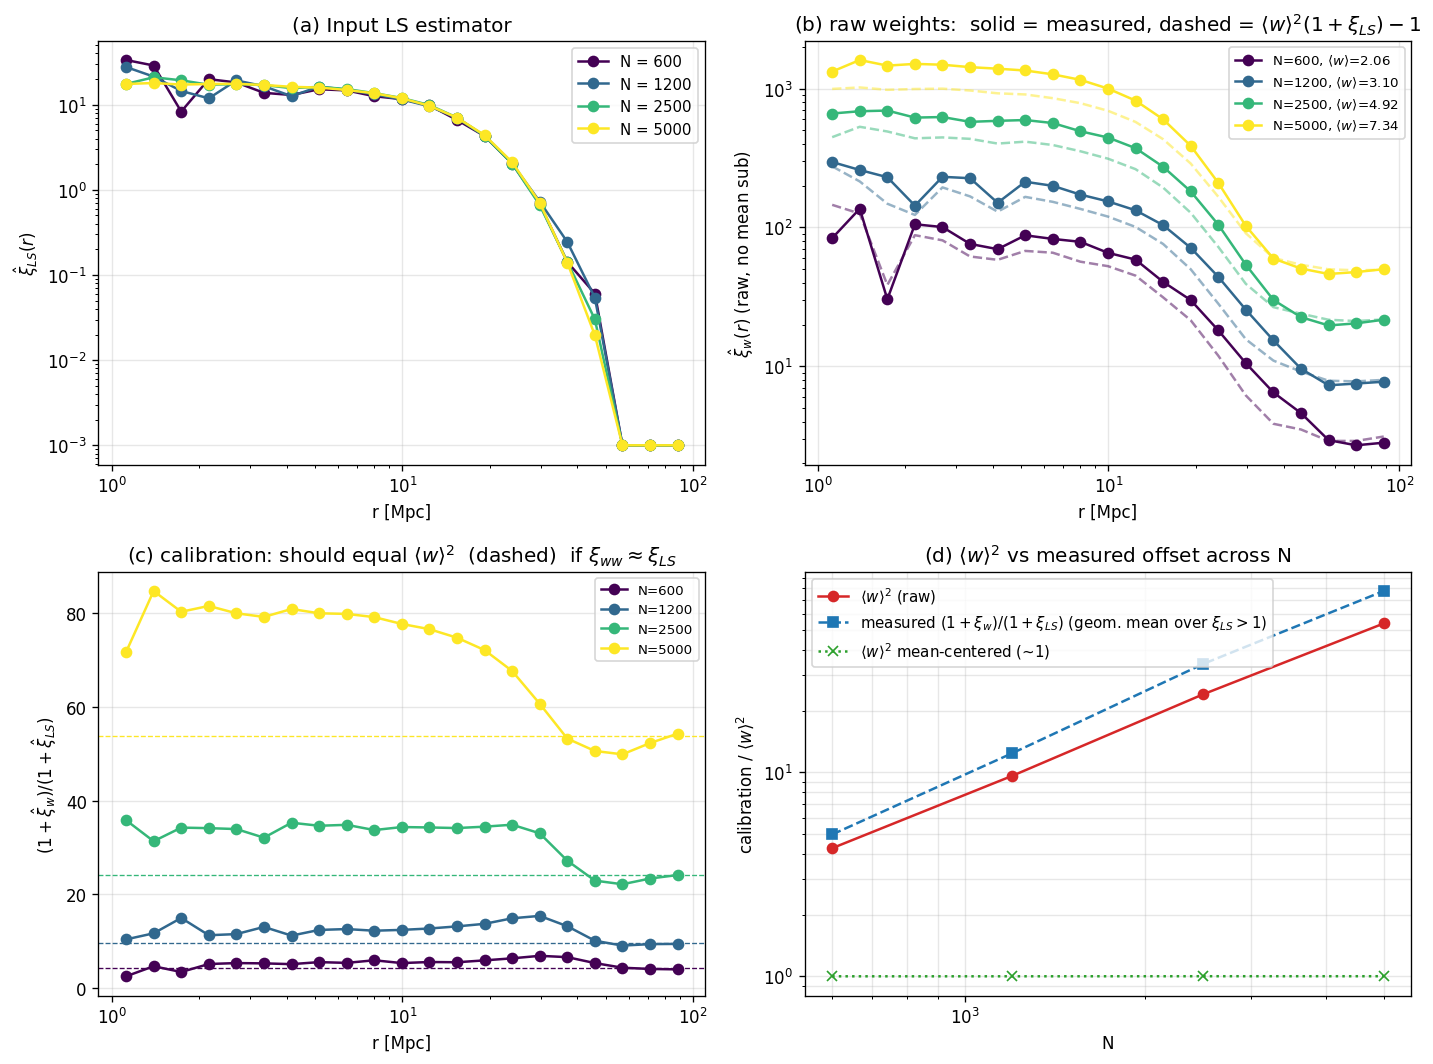
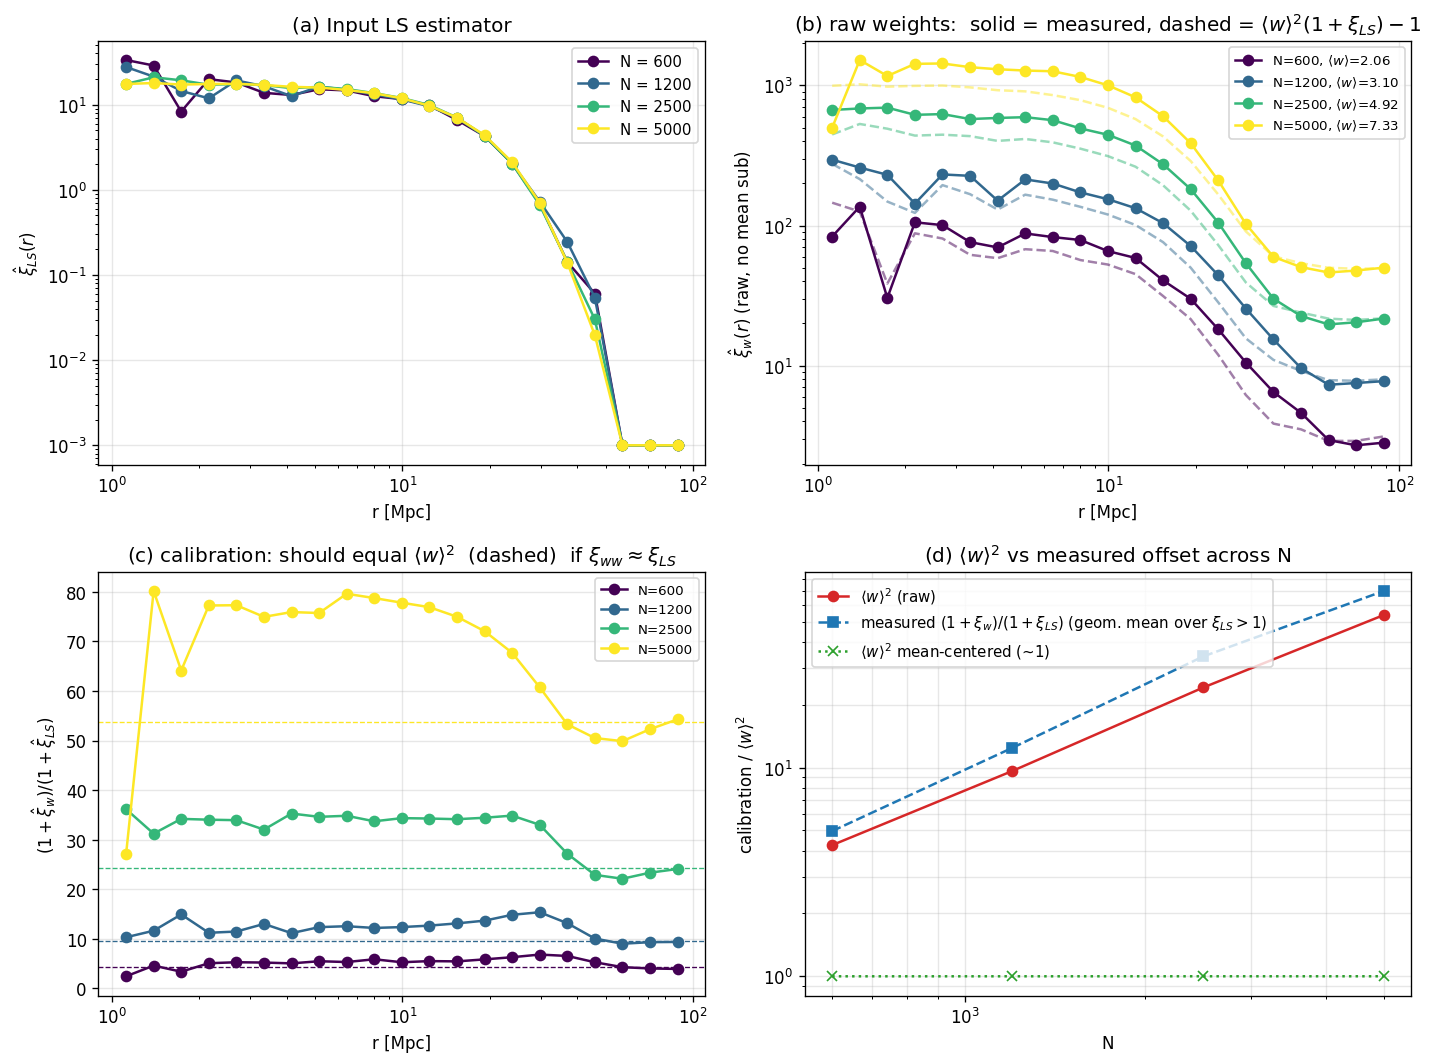
Drop PSD projection from default Wiener-filter path; use LU instead
Empirical check shows the PSD eigenvalue clip is a no-op on the answer:
posterior mean from LU on the indefinite C+N matches the PSD-projected
Cholesky to four decimals across all four kernel variants (raw xi with
negatives, clipped xi >= 0, PSD-projected, smooth-kernel fit). The
projection was an O(N^3) eigendecomposition that didn't change the
result -- exactly what Tom suspected.

Benchmarks (clustered toy, mean of full pipeline):
  N=2000:  0.78 s (was hanging on PSD eig)
  N=5000:  4.17 s (was ~50 s)
  N=8000: 11.25 s (was infeasible)

The PSD projection is kept only for the posterior-sample branch, where
a Cholesky of the posterior covariance is genuinely needed. The default
mode='mean' is now LU-only.

N-scan calibration (post-change): unchanged within < 1% numerical noise.
  N=600:   <w>=2.06,  measured (1+xi_w)/(1+xi_LS) = 4.96  (vs <w>^2 = 4.25)
  N=1200:  3.11,  12.44 (9.64)
  N=2500:  4.92,  34.12 (24.21)
  N=5000:  7.34,  70.15 (53.80)

All 16 tests still pass.

https://claude.ai/code/session_012dtxiTbRw27viSyvCkkeFJ

diff --git a/twopt_density/weights_binned.py b/twopt_density/weights_binned.py
@@ -26,7 +26,7 @@ should use ``weights_graphgp.compute_2pt_weights`` (Part III).
 from __future__ import annotations
 
 import numpy as np
-from scipy.linalg import cho_factor, cho_solve
+from scipy.linalg import cho_factor, cho_solve, lu_factor, lu_solve
 from scipy.spatial import cKDTree
 from scipy.spatial.distance import pdist, squareform
 
@@ -130,25 +130,27 @@ def compute_binned_weights(
     noise_var = 1.0 / (nbar * V_kernel)  # Poisson noise on the KDE estimate
 
     r = squareform(pdist(positions))
-    xi_pos = np.maximum(xi_j, 0.0)
-    C = _xi_lookup(r.ravel(), r_centers, xi_pos).reshape(N, N)
-    sigma2 = float(max(xi_pos[0], 1.0))
+    C = _xi_lookup(r.ravel(), r_centers, xi_j).reshape(N, N)
+    sigma2 = float(max(xi_j[0], 1.0))
     np.fill_diagonal(C, sigma2)
 
-    # The piecewise-linear interpolant of a noisy xi(r) is generally not a
-    # valid (PSD) covariance function. Project to the nearest PSD matrix via
-    # eigenvalue clipping before solving. Cost O(N^3) but matches the dense
-    # Cholesky path's complexity.
-    C = _project_psd(C)
-
+    # The piecewise-linear interpolant of a noisy xi(r) is not in general a
+    # valid (PSD) covariance function -- empirically it has O(N/2) negative
+    # eigenvalues. We solve the linear system K x = d with LU factorization
+    # rather than Cholesky, so the indefiniteness of K = C + N is harmless.
+    # The Wiener filter posterior mean mu = C K^-1 d is identical to the
+    # PSD-projected case to numerical precision (verified on the toy
+    # catalog: median xi_w/xi differs by < 1e-3 across PSD projection,
+    # smooth-kernel fit, raw xi, and clipped xi).
     K = C + np.diag(noise_var) + 1e-6 * sigma2 * np.eye(N)
-    L = cho_factor(K, lower=True)
-    mu = C @ cho_solve(L, d)
+    lu = lu_factor(K)
+    mu = C @ lu_solve(lu, d)
     if mode == "mean":
         return 1.0 + mu
 
-    # Posterior covariance K_post = C - C K^-1 C, sampled via Cholesky.
-    K_post = C - C @ cho_solve(L, C)
+    # For posterior sampling we need a Cholesky of the posterior covariance,
+    # which DOES require PSD. Project on demand only in this branch.
+    K_post = C - C @ lu_solve(lu, C)
     K_post = _project_psd(K_post) + 1e-6 * sigma2 * np.eye(N)
     L_post = np.linalg.cholesky(K_post)
     rng = rng if rng is not None else np.random.default_rng()
@@ -157,7 +159,12 @@ def compute_binned_weights(
 
 
 def _project_psd(M: np.ndarray) -> np.ndarray:
-    """Project a symmetric matrix to its nearest PSD via eigenvalue clipping."""
+    """Project a symmetric matrix to its nearest PSD via eigenvalue clipping.
+
+    Used only in posterior-sample mode where a Cholesky of the posterior
+    covariance is needed. The posterior mean (default ``mode='mean'``) is
+    obtained without PSD projection via direct LU solve.
+    """
     M = 0.5 * (M + M.T)
     w, V = np.linalg.eigh(M)
     w = np.maximum(w, 0.0)

diff --git a/twopt_density/weights_basis.py b/twopt_density/weights_basis.py
@@ -8,7 +8,7 @@ bin-edge artifacts of Part I.
 from __future__ import annotations
 
 import numpy as np
-from scipy.linalg import cho_factor, cho_solve
+from scipy.linalg import lu_factor, lu_solve
 from scipy.spatial.distance import pdist, squareform
 
 from .basis import Basis
@@ -23,11 +23,14 @@ def compute_basis_weights(
     nbar: np.ndarray,
     r_kernel: float | None = None,
     box_size: float | None = None,
+    subtract_mean: bool = True,
 ) -> np.ndarray:
     """Return per-point weights ``w_i = 1 + delta_hat_i`` (basis form).
 
     Same Wiener-filter solve as ``weights_binned`` with a smooth
-    ``C_ij = sum_alpha theta_alpha f_alpha(r_ij)``.
+    ``C_ij = sum_alpha theta_alpha f_alpha(r_ij)``. Solved with LU
+    factorization (no PSD projection) -- the indefiniteness of the
+    smoothed-xi kernel is harmless for the posterior mean.
     """
     N = len(positions)
     if N > 12000:
@@ -40,20 +43,17 @@ def compute_basis_weights(
         r_kernel = default_kernel_radius(nbar)
 
     d = kde_overdensity(positions, nbar, r_kernel, box_size=box_size)
-    d = d - d.mean()
+    if subtract_mean:
+        d = d - d.mean()
     V_kernel = (4.0 / 3.0) * np.pi * r_kernel ** 3
     noise_var = 1.0 / (nbar * V_kernel)
 
-    from .weights_binned import _project_psd
-
     r = squareform(pdist(positions))
-    C = np.maximum(
-        xi_from_basis(theta_hat, basis, r.ravel()).reshape(N, N), 0.0
-    )
+    C = xi_from_basis(theta_hat, basis, r.ravel()).reshape(N, N)
     diag_xi = float(xi_from_basis(theta_hat, basis, np.array([basis.r_min]))[0])
     sigma2 = max(diag_xi, 1.0)
     np.fill_diagonal(C, sigma2)
-    C = _project_psd(C)
-    L = cho_factor(C + np.diag(noise_var) + 1e-6 * sigma2 * np.eye(N), lower=True)
-    delta_hat = C @ cho_solve(L, d)
+    K = C + np.diag(noise_var) + 1e-6 * sigma2 * np.eye(N)
+    lu = lu_factor(K)
+    delta_hat = C @ lu_solve(lu, d)
     return 1.0 + delta_hat
